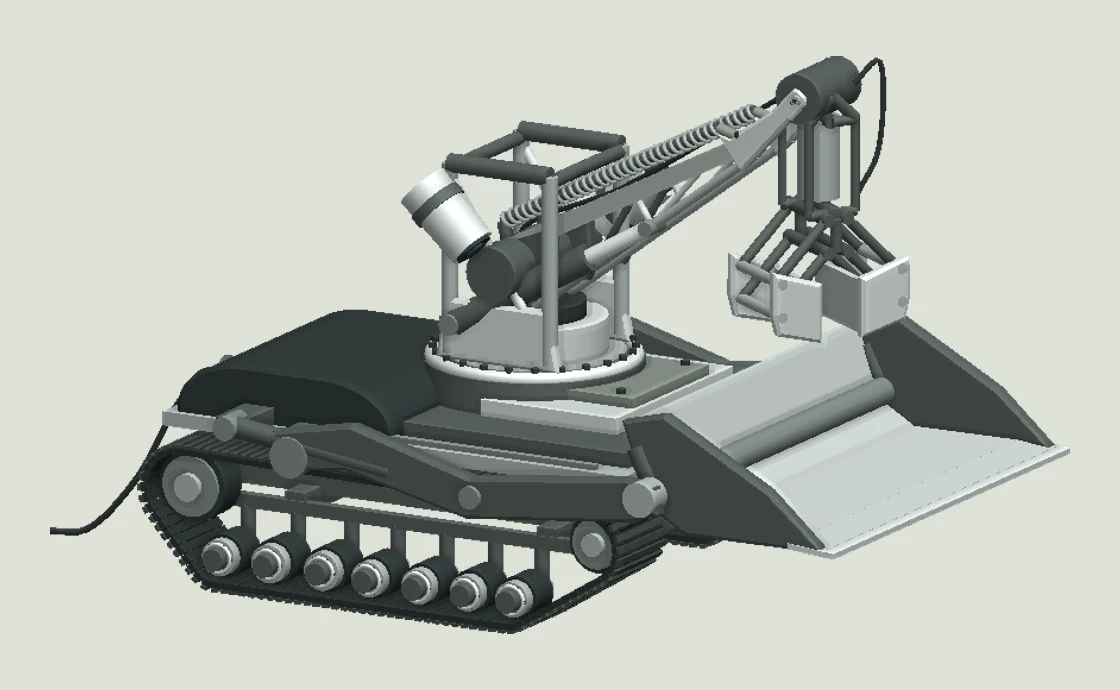
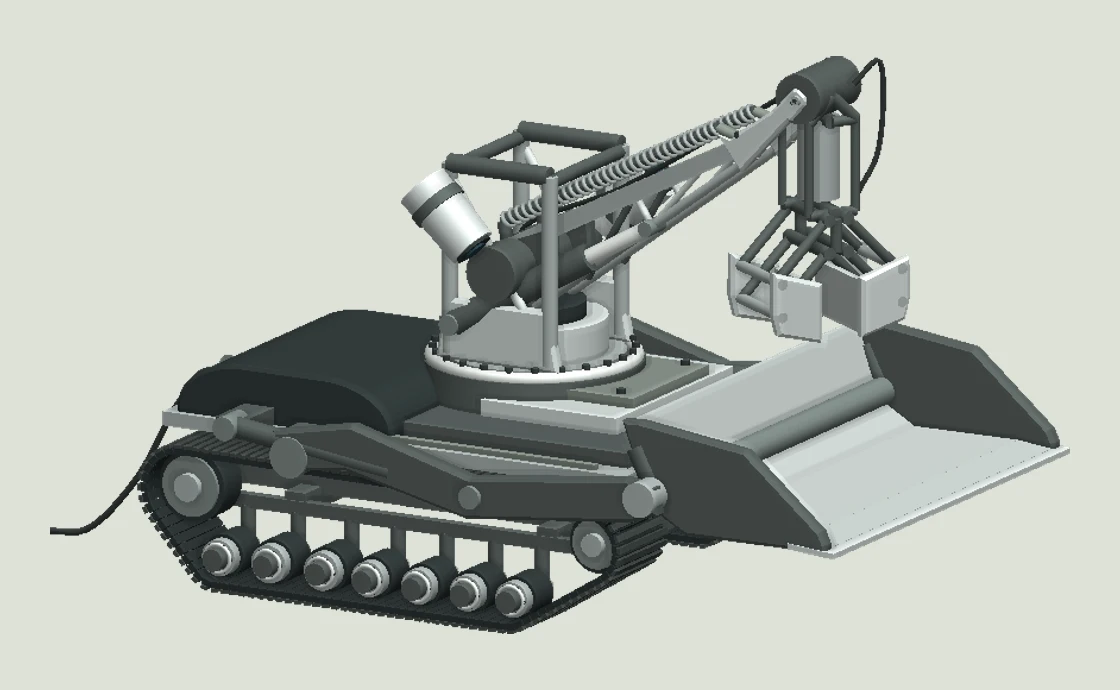
Refit the bucket side plates on SKTB 2 and verify the snow view

Changed region(s): [[0.7812, 0.4565, 0.9688, 0.6391], [0.625, 0.6391, 0.75, 0.7913], [0.5625, 0.5783, 0.625, 0.6391]]

diff --git a/mobot-engineering-v22.html b/mobot-engineering-v22.html
@@ -37,7 +37,7 @@
     <div class="photo-actions"><button id="match" disabled>Показать позу в 3D</button><label class="check"><input type="checkbox" id="overlay" disabled> Наложить снимок</label></div>
     <p class="note">Наложение служит для визуального сравнения. Перспектива и масштаб камеры не откалиброваны.</p><a id="original" href="http://sktbpr.ru/sites/default/files/foto_album/2.jpg">Первичный источник ↗</a></div></div>
   </section>
-  <section aria-labelledby="compare"><h2 id="compare">Архив · v21 · v22</h2><p>Откройте наложение для сравнения одной детали при одинаковой регистрации камеры.</p><div class="links"><a href="./research/mobot/1987/night-20261118/SKTB4-hood.jpg">Кожух на снегу · №4 ↗</a><a href="./research/mobot/1987/night-20261118/SKTB4-boom-cheek.jpg">Концевой шарнир стрелы · №4 ↗</a><a href="./research/mobot/1987/night-20261118/SKTB4-boom-pose.jpg">Положение стрелы на снегу · №4 ↗</a><a href="./research/mobot/1987/night-20261118/SKTB3-jaw.jpg">Щека схвата · №3 ↗</a><a href="./research/mobot/1987/night-20261118/SKTB3-opening.jpg">Раскрытие двух губок · №3 ↗</a><a href="./research/mobot/1987/night-20261118/SKTB9-breaker.jpg">Молоток · №9 ↗</a><a href="./research/mobot/1987/night-20261118/SKTB2-hood.jpg">Кожух перед отправкой · №2 ↗</a></div></section>
+  <section aria-labelledby="compare"><h2 id="compare">Архив · v21 · v22</h2><p>Откройте наложение для сравнения одной детали при одинаковой регистрации камеры.</p><div class="links"><a href="./research/mobot/1987/night-20261118/SKTB4-hood.jpg">Кожух на снегу · №4 ↗</a><a href="./research/mobot/1987/night-20261118/SKTB4-bucket.jpg">Щека ковша на снегу · №4 ↗</a><a href="./research/mobot/1987/night-20261118/SKTB4-boom-cheek.jpg">Концевой шарнир стрелы · №4 ↗</a><a href="./research/mobot/1987/night-20261118/SKTB4-boom-pose.jpg">Положение стрелы на снегу · №4 ↗</a><a href="./research/mobot/1987/night-20261118/SKTB3-jaw.jpg">Щека схвата · №3 ↗</a><a href="./research/mobot/1987/night-20261118/SKTB3-opening.jpg">Раскрытие двух губок · №3 ↗</a><a href="./research/mobot/1987/night-20261118/SKTB9-breaker.jpg">Молоток · №9 ↗</a><a href="./research/mobot/1987/night-20261118/SKTB2-hood.jpg">Кожух перед отправкой · №2 ↗</a></div></section>
   <section id="evidence"><div class="section-head"><div><p class="eyebrow">ИССЛЕДОВАТЕЛЬСКАЯ ВЕРСИЯ 22</p><h2 id="passport">Паспорт достоверности</h2></div></div>
   <div class="legend"><div><b>A</b><h3>Документ</h3><p>Сменный схват и два места установки молотка описаны разработчиком.</p></div><div><b>B</b><h3>Фотография</h3><p>Катки видимого борта, оболочка кожуха, наружные элементы стрелы и рабочие органы различимы на снимках.</p></div><div><b>C</b><h3>Гипотеза</h3><p>Размеры, скрытые крепления, углы и кинематика условны. Внутреннее устройство кабелеукладчика и место дозиметра остаются открытыми.</p></div></div>
   <div class="links" id="backup"><a href="./mobot-engineering-v22-passport.json">Паспорт узлов ↗</a><a href="./research/mobot/1987/night-20261118/contact-sweep.json">Проверка 81 положения ↗</a><a href="./research/mobot/1987/night-20261118/side.webp">Боковой контрольный кадр ↗</a><a href="./research/mobot/1987/night-20261118/breaker-arm.webp">Молоток на стреле ↗</a><a href="./research/mobot/1987/night-20261118/breaker-loader.webp">Молоток на погрузчике ↗</a><a href="./mobot-engineering-v21.html">Архив v21 ↗</a></div></section>

diff --git a/mobot-engineering-v22-model.js b/mobot-engineering-v22-model.js
@@ -535,7 +535,8 @@ export function makeMobot(THREE, quality='auto') {
   blade.name='Сплошная рабочая кромка';
   for(const side of [-1,1]){
     const z=side*.75;
-    plate(scoopShell,[...sectionXY,[-.07,.245],[-.42,-.01]],.034,z-.017,m.frame,'bucket');
+    // Upper rim traced on SKTB 2; opposite cheek thickness and symmetry are inferred.
+    plate(scoopShell,[...sectionXY,[.025,.225],[-.352,.123],[-.590,-.143],[-.602,-.182]],.034,z-.017,m.frame,'bucket');
     beam(scoopShell,[.052,.15,z],[0,0,z],.04,m.frame,'bucket');
   }
   cylinder(scoopShell,.046,.046,1.72,[0,0,0],m.joint,'bucket','z');

diff --git a/research/mobot/1987/night-20261118/QA-LOG.md b/research/mobot/1987/night-20261118/QA-LOG.md
@@ -107,3 +107,6 @@ B — положение и относительная ориентация ви
 
 ### Ковш · исходная сверка
 Положение ближней щеки проецируется из меша Three.js в камеры палубы при позах №2/4. Ошибка переднего конца щеки 112,22 и 29,14 px соответственно. Локальная регистрация по верхнему заднему и переднему углам отделяет контур от ошибок позы, масштаба и положения ковша. При ширине кадра 1000 px RMS шести точек верхней кромки 9,50 и 6,35 px. На №4 нижняя граница частично закрыта снегом и исключена; передний угол регистрации менее надёжен. [Исходная проекция](bucket-cheek-before.json).
+
+### Верхний контур щеки ковша
+По снимку №2 изменены плечо и скос переднего конца боковины до рабочей кромки. Исправлена геометрия обеих боковин; зеркальное повторение и толщина C, видимый контур B. Результат локальной сверки шести отметок на №2 9,50 → 0,45 px; на независимом №4 6,35 → 3,09 px, или 1,25% → 0,61% видимого отрезка ходовой. Величины относятся к копиям шириной 1000 px. Наложения показывают общую проекцию в камере палубы, исходную и новую боковины в общей локальной регистрации. Ошибка положения переднего конца в общей камере сохраняется; замена формы не доказывает правильность углов или вылета. Положение пальца №2 в локальной регистрации расходится с видимой осью примерно на 23 px. Нижний край на №4 исключён, включая скрытую рабочую кромку. Шесть поз без предупреждений, 42 подтверждённых положения на сетке 81; 222 проверки шарниров пройдены. [№2](SKTB2-bucket.jpg) · [№4](SKTB4-bucket.jpg) · [тест](bucket-cheek.mjs).

diff --git a/research/mobot/1987/night-20261118/STATE.md b/research/mobot/1987/night-20261118/STATE.md
@@ -81,3 +81,6 @@ PR #16 слит; [постоянная ссылка](https://step3dlab.github.io
 
 ### Ковш · исходная проекция
 Перед началом подтверждён HEAD d6324d45ea1360315793d3b684696101153f59a3, успешный прогон 44219003820 и слияние PR #19. Последнее обновление main 828660b относится к отдельной работе. Сохранены контрольные точки и независимая камера палубы для ковша. Следующая проверка — уточнить верхнюю границу ближней щеки на №2 и проверить её на №4 при прежней регистрации.
+
+### Ковш · кандидат для приёмки
+Исходный тест опубликован на bb18ec8714ed5bd3ad7c86ac849c3cffbf344bc7. Верхний контур перенесён с №2 и проверен на №4. Четыре резервных кадра пересчитаны. Следующий шаг — приёмка этой геометрии в Chromium и на Pages; общую ошибку положения ковша хранить отдельно от ошибки локального контура.
